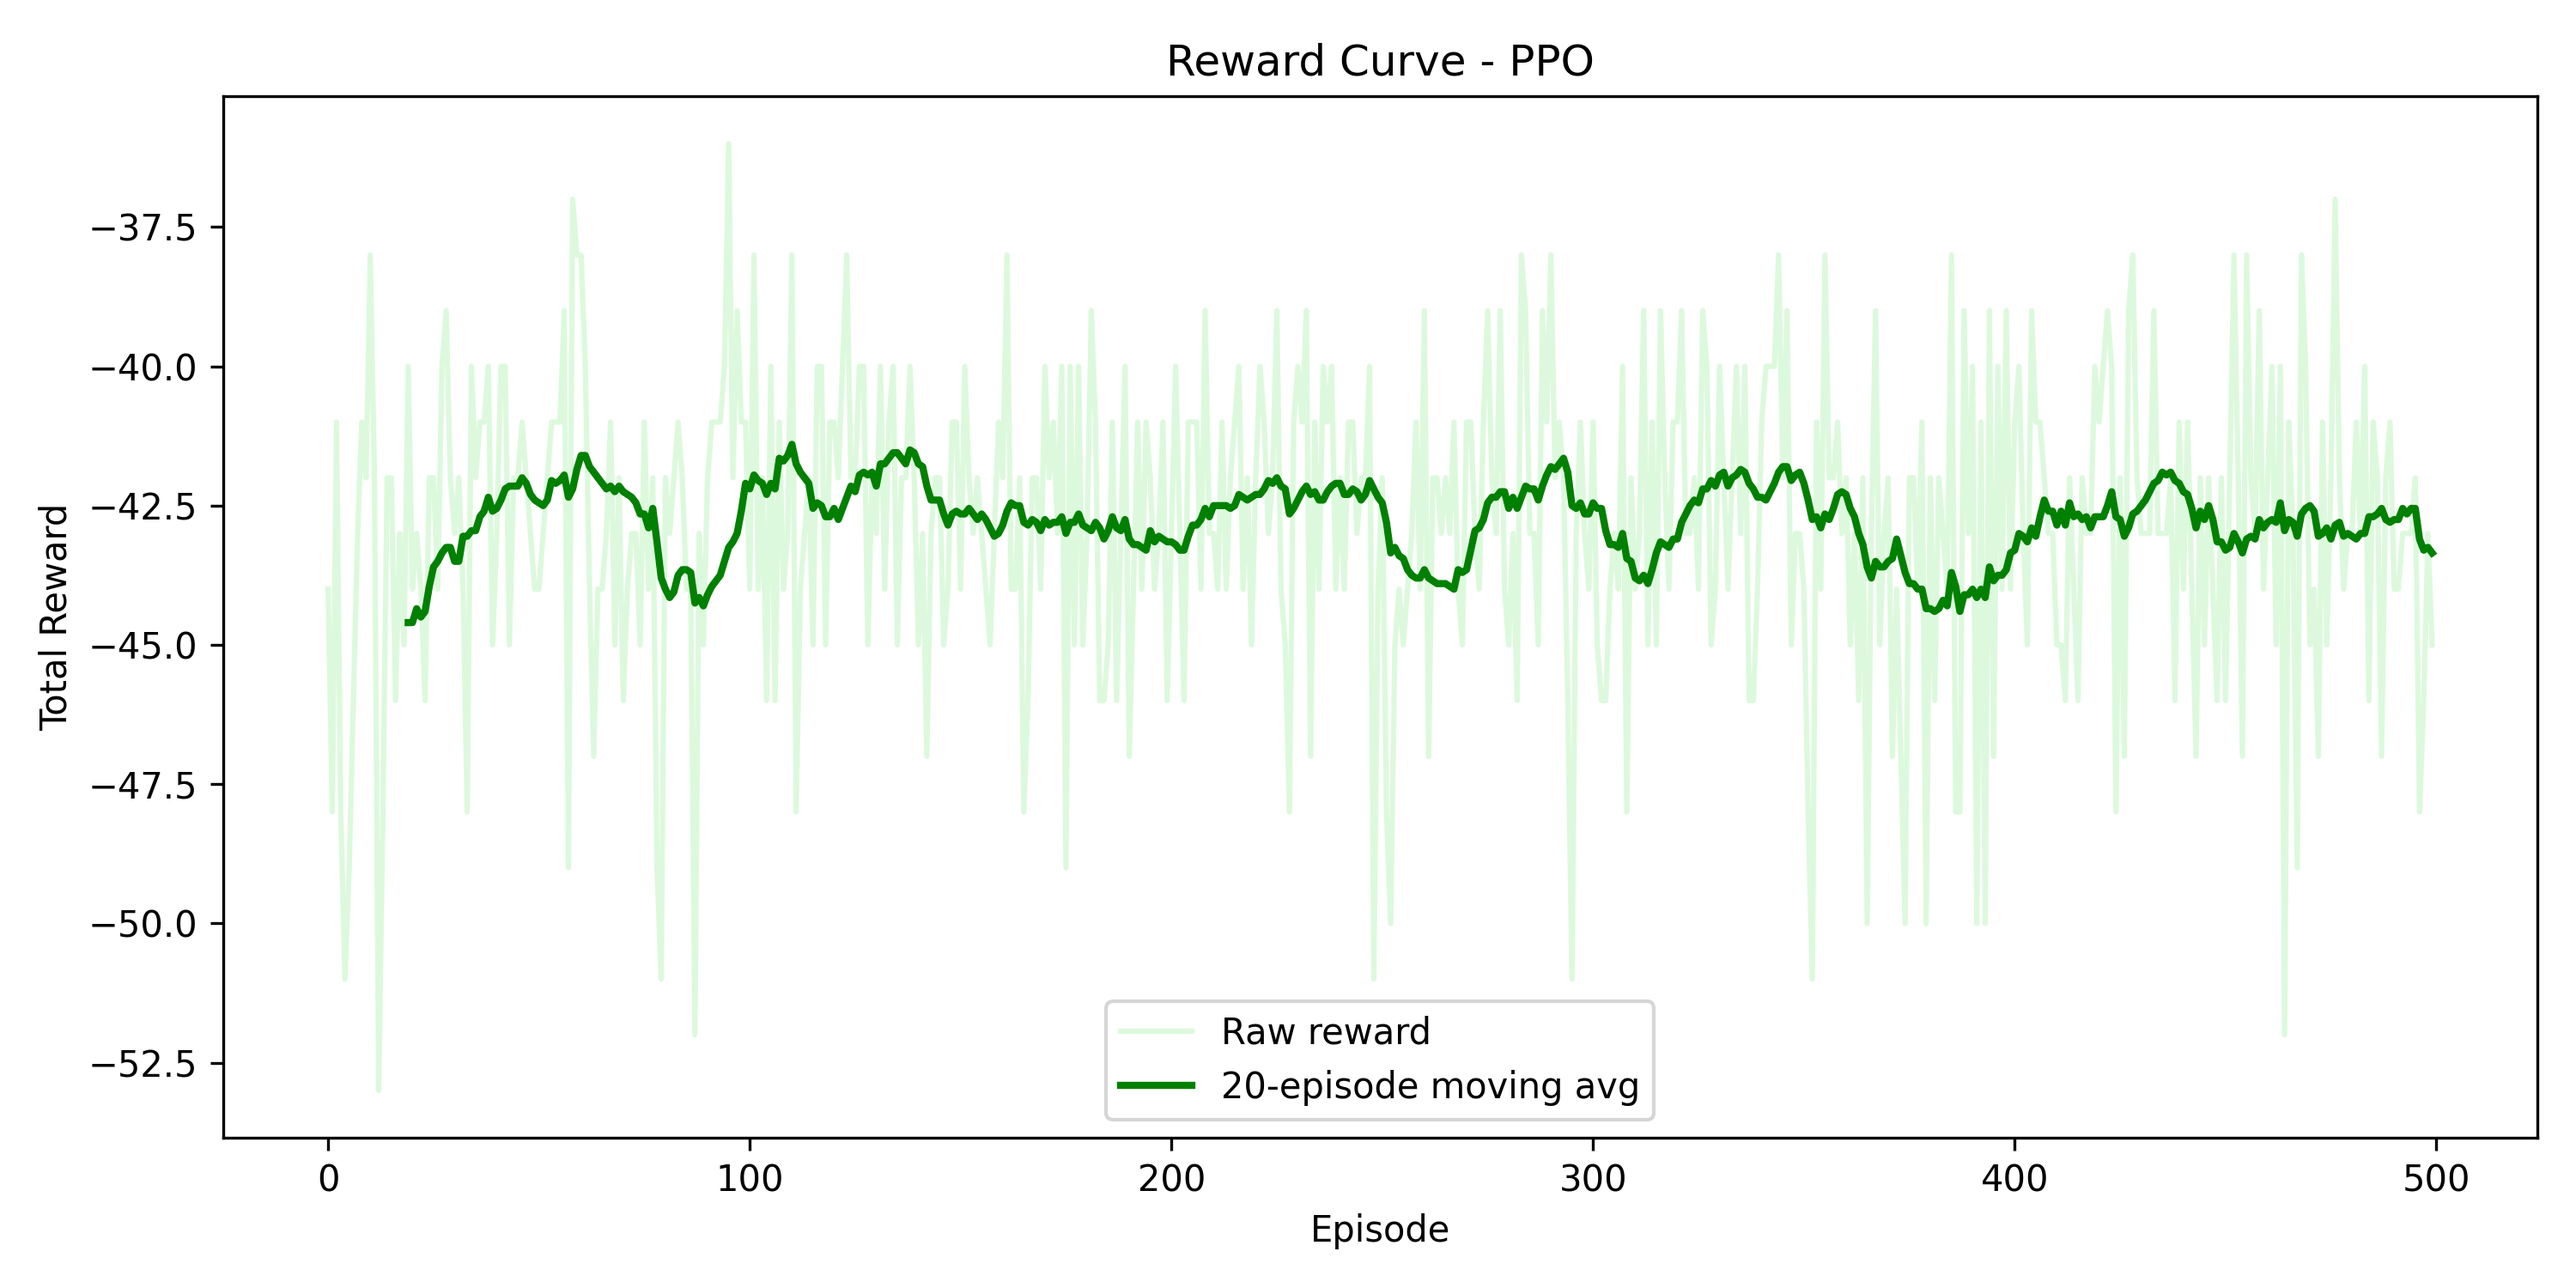
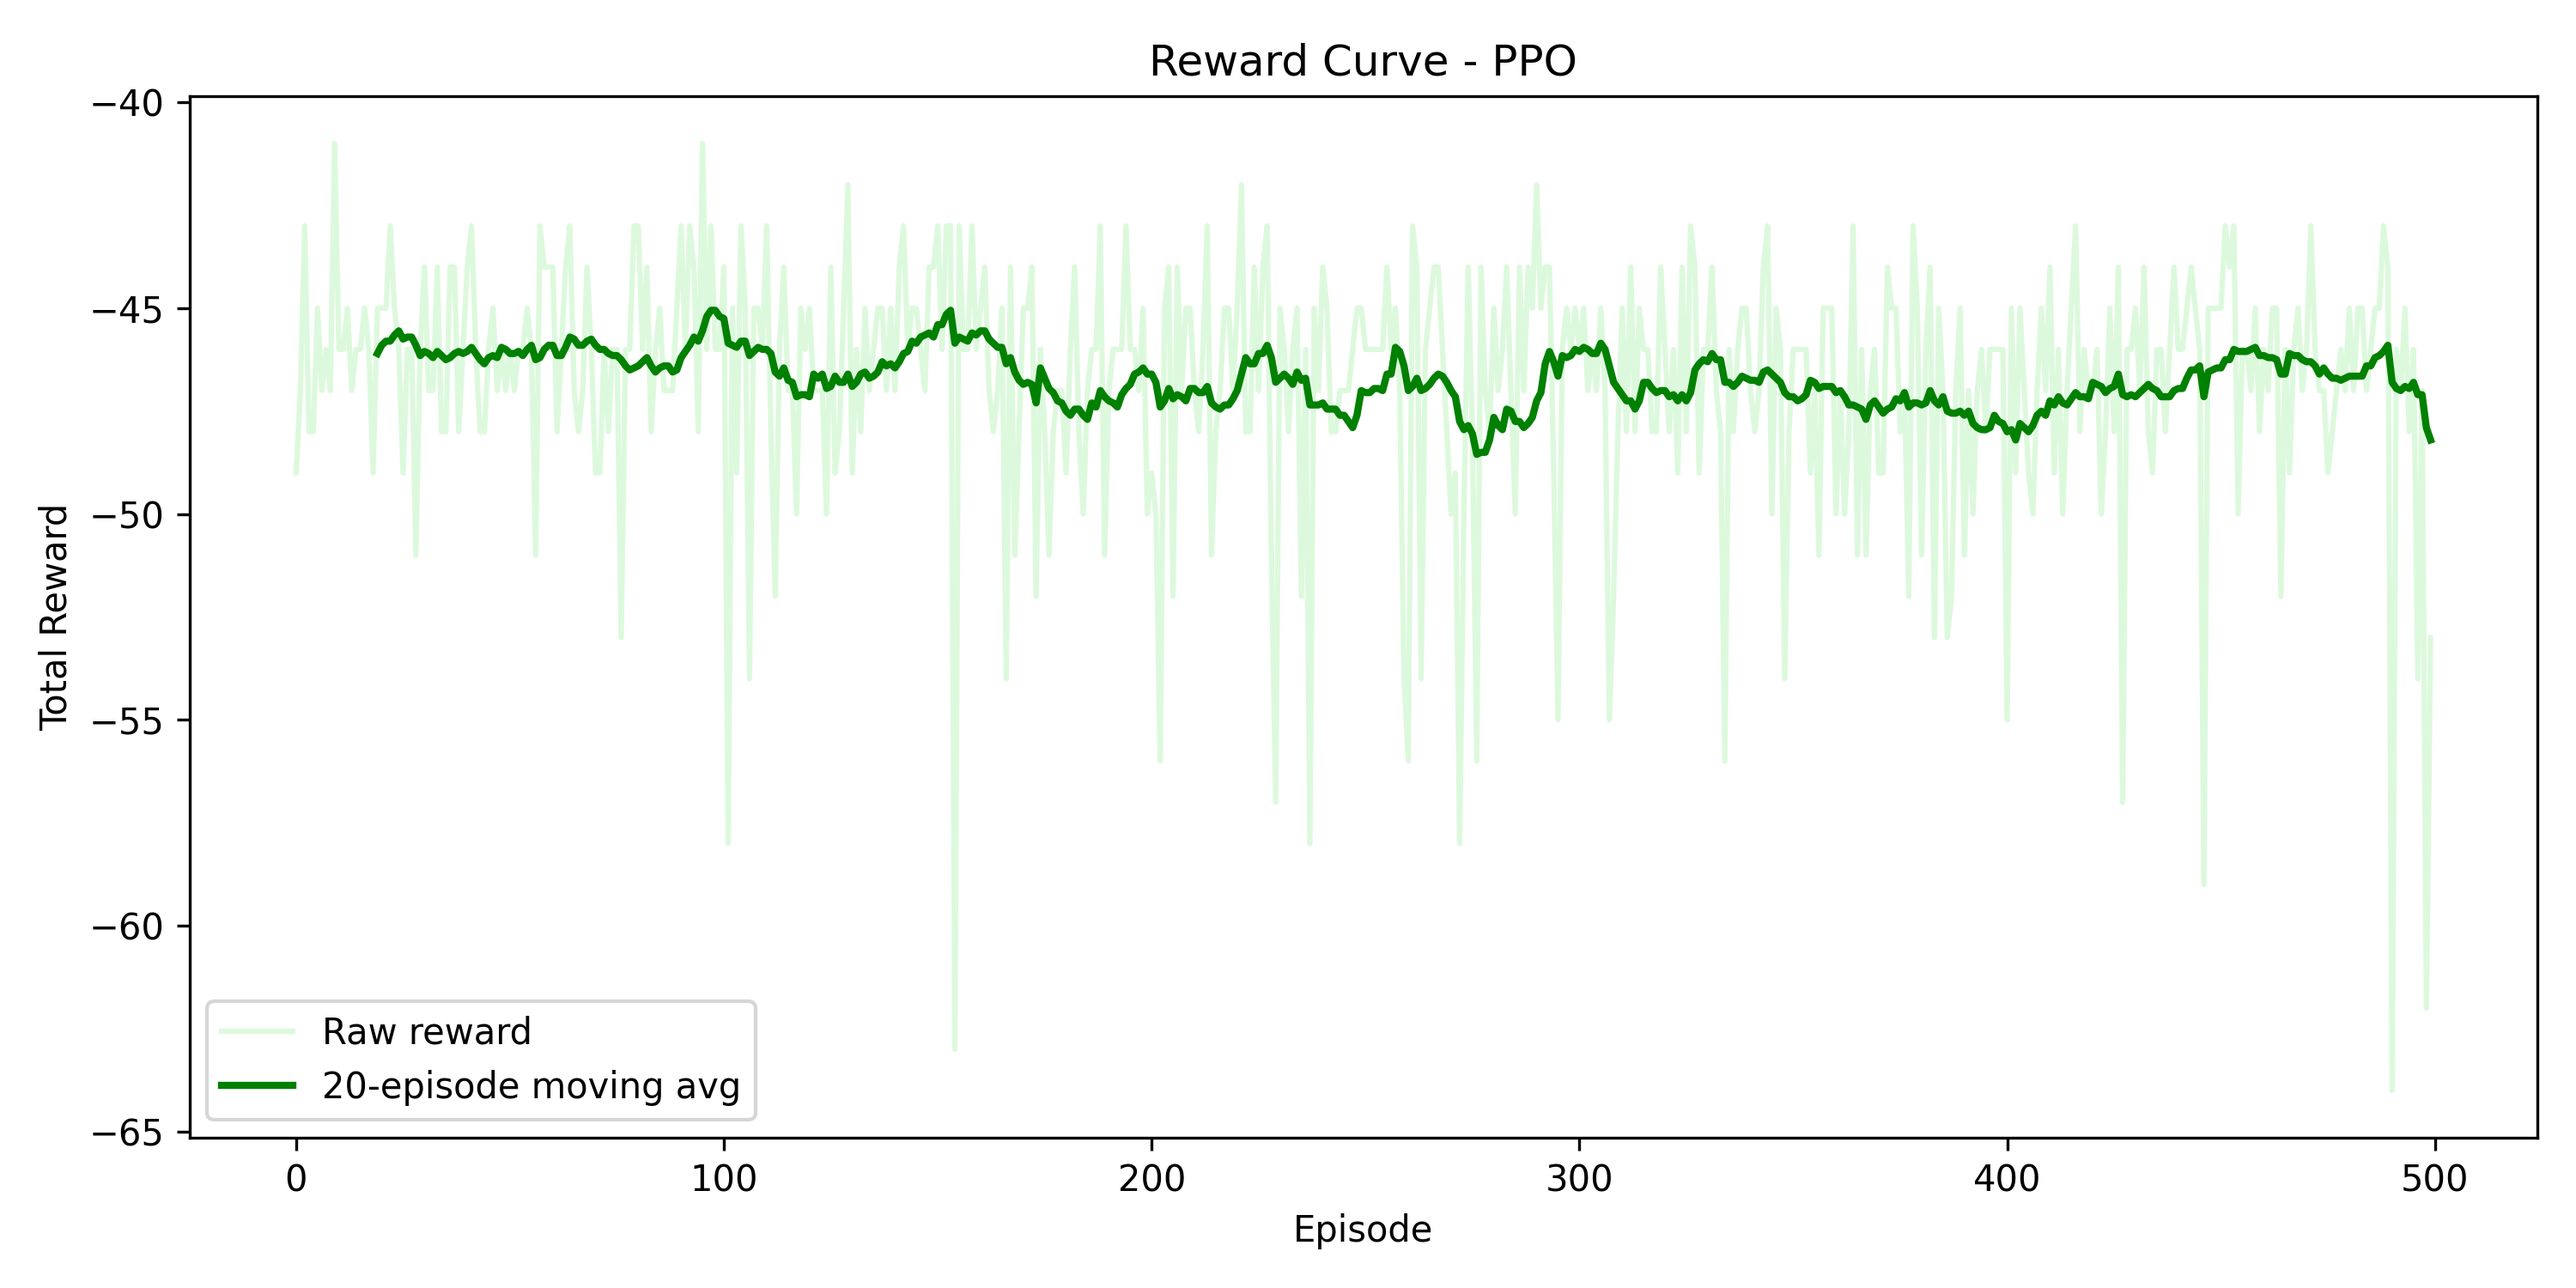
Update Airflow DAG and evaluation outputs

diff --git a/dags/taxi_pipeline.py b/dags/taxi_pipeline.py
@@ -1,52 +1,56 @@
 from airflow import DAG
-from airflow.providers.standard.operators.bash import BashOperator
+from airflow.operators.bash import BashOperator
 from datetime import datetime
 
 default_args = {
-    "owner": "sahana",
+    "owner": "airflow",
+    "depends_on_past": False,
     "start_date": datetime(2025, 1, 1),
+    "retries": 1,
 }
 
 with DAG(
-
     dag_id="smart_taxi_dispatch_pipeline",
-
     default_args=default_args,
-
-    schedule=None,
-
+    description="RL + MLOps pipeline for Smart Taxi Dispatch Optimization",
+    schedule=None,          # Manual trigger
     catchup=False,
-
-    tags=["mlops", "reinforcement-learning"]
-
+    tags=["RL", "MLOps", "Taxi"],
 ) as dag:
 
-    preprocess = BashOperator(
+    # ---------------------------
+    # Preprocessing
+    # ---------------------------
 
+    preprocess_data = BashOperator(
         task_id="preprocess_data",
-
         bash_command="""
         cd ~/projects/smart_taxi_dispatch_optimization &&
         source venv/bin/activate &&
-        python -m preprocessing.preprocess
+        python preprocessing/preprocess.py
         """
     )
+
+    # ---------------------------
+    # Train Q-Learning
+    # ---------------------------
 
     train_qlearning = BashOperator(
-
         task_id="train_qlearning",
-
         bash_command="""
         cd ~/projects/smart_taxi_dispatch_optimization &&
         source venv/bin/activate &&
-        python -m experiments.train --config configs/qlearning_v2_explored.yaml
+        python experiments/train.py \
+        --config configs/qlearning_v2_explored.yaml
         """
     )
 
+    # ---------------------------
+    # Train PPO
+    # ---------------------------
+
     train_ppo = BashOperator(
-
         task_id="train_ppo",
-
         bash_command="""
         cd ~/projects/smart_taxi_dispatch_optimization &&
         source venv/bin/activate &&
@@ -54,15 +58,40 @@ with DAG(
         """
     )
 
+    # ---------------------------
+    # Evaluate / Compare models
+    # ---------------------------
+
     compare_models = BashOperator(
-
         task_id="compare_models",
-
         bash_command="""
         cd ~/projects/smart_taxi_dispatch_optimization &&
         source venv/bin/activate &&
-        python experiments/compare_models.py
+        python experiments/evaluate.py
         """
     )
 
-    preprocess >> train_qlearning >> train_ppo >> compare_models
+    # ---------------------------
+    # Plot graphs
+    # ---------------------------
+
+    plot_results = BashOperator(
+        task_id="plot_results",
+        bash_command="""
+        cd ~/projects/smart_taxi_dispatch_optimization &&
+        source venv/bin/activate &&
+        python experiments/plot_results.py
+        """
+    )
+
+    # ---------------------------
+    # Workflow order
+    # ---------------------------
+
+    (
+        preprocess_data
+        >> train_qlearning
+        >> train_ppo
+        >> compare_models
+        >> plot_results
+    )
